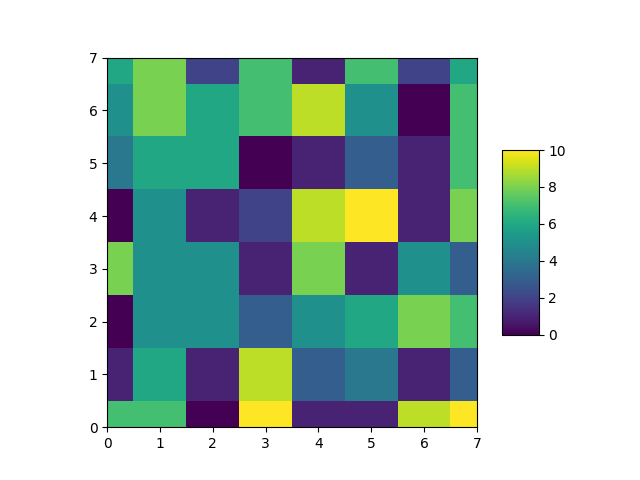
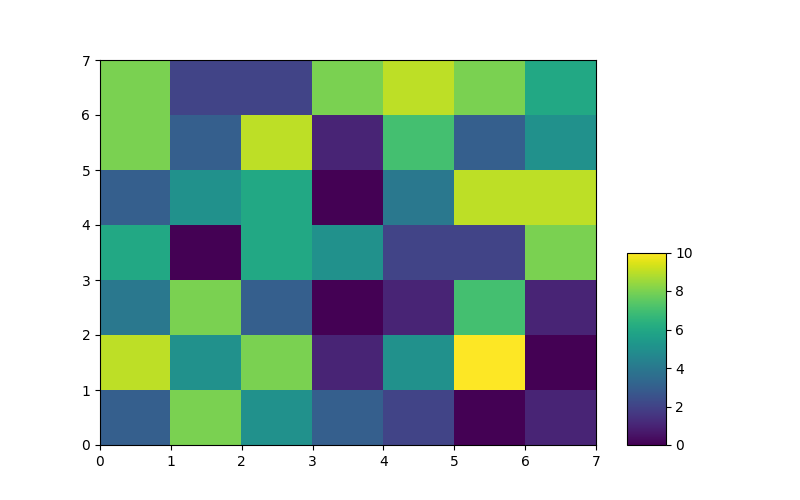
fix(HW2.05): add last part of homework # 2.05

diff --git a/lesson_2.08/homework-2.05.py b/lesson_2.08/homework-2.05.py
@@ -9,11 +9,11 @@
 
 import numpy as np
 import pandas as pd
-import matplotlib as mpl
 import matplotlib.pyplot as plt
 
 def task1() -> None:
     """
+    Задание 1
     """
     x = [2, 5, 10, 15, 20]
     y1 = [1, 7, 4, 5, 11]
@@ -30,6 +30,7 @@ def task1() -> None:
 
 def task2() -> None:
     """
+    Задание 2
     """
     x = np.arange(1, 6, 1)
     y1 = [1, 7, 6, 3, 4]
@@ -52,22 +53,25 @@ def task2() -> None:
 
 def task3() -> None:
     """
+    Задание 3
     """
     x = np.linspace(-5, 5, 15)
     y = x ** 2
+
+    # Положение минимума
+    xmin = 0
+    ymin = xmin ** 2
 
     fig, ax = plt.subplots()
 
     ax.plot(x, y)
 
-    xmin = 0
-    ymin = xmin ** 2
     ax.annotate(
         "min", 
-        xy=(xmin, ymin), 
-        xytext=(xmin, ymin + 10),
-        arrowprops=dict(
-            facecolor="green",
+        xy=(xmin, ymin),                # точка аннотации
+        xytext=(xmin, ymin + 10),       # точка подписи
+        arrowprops=dict(                # добавление стрелки
+            facecolor="green",          # цвет заливки стрелки
         )
     )
     fig.savefig("lesson_2.08/res/task_3.png")
@@ -76,34 +80,36 @@ def task3() -> None:
 
 def task4() -> None:
     """
+    Задание 4
     """
-    data = np.random.randint(0, 11, (8, 8))
+    data = np.random.randint(11, size=(7, 7))
+    fig = plt.figure(figsize=(8, 5))
 
-    plt.imshow(
+    plt.pcolor(
         data, 
         cmap="viridis",
     )
     plt.colorbar(
-        location="right",
-        shrink=0.5,
-        aspect=5
+        location="right",       # расположение колорбара
+        shrink=0.5,             # доля высоты холста
+        aspect=5,               # ширина колорбара
+        anchor=(0, 0)           # отправная точка построения колорбара
     )
-    plt.xlim(0, 7)
-    plt.ylim(0, 7)
     plt.savefig("lesson_2.08/res/task_4.png")
     plt.close()
 
 
 def task5() -> None:
     """
+    Задание 5
     """
-    fig, ax = plt.subplots()
-    x = np.linspace(0, 5, 100)
+    x = np.linspace(0, 5, 1000)
     y = np.cos(np.pi * x)
 
+    fig, ax = plt.subplots()
+
     ax.plot(x, y, "r")
-    ax.fill_between(x, y, where=(y > 0), color="blue", alpha=0.5)
-    ax.fill_between(x, y, where=(y < 0), color="blue", alpha=0.5)
+    ax.fill_between(x, y, color="blue", alpha=0.7)
 
     fig.savefig("lesson_2.08/res/task_5.png")
     plt.close()
@@ -111,40 +117,123 @@ def task5() -> None:
 
 def task6() -> None:
     """
+    Задание 6
     """
-    fig, ax = plt.subplots()
-    x = np.linspace(0, 5, 100)
+    x = np.linspace(0, 5, 1000)
     y = np.cos(np.pi * x)
 
-    ax.plot(x, y)
+    mask = np.where(y < -0.5)       # маска для отсекания графика
+    x[mask] = np.nan
+    y[mask] = np.nan
 
-    fig.savefig("lesson_2.08/res/task_5.png")
+    fig, ax = plt.subplots()
+
+    ax.plot(x, y, linewidth=2)
+    ax.set_ylim(-1, 1)
+
+    fig.savefig("lesson_2.08/res/task_6.png")
     plt.close()
-    pass
 
 
 def task7() -> None:
     """
+    Задание 7
     """
-    pass
+    x = np.arange(7)
+    y = x
+
+    fig, ax = plt.subplots(1, 3)
+    fig.set_figwidth(15)
+    fig.set_figheight(4)
+
+    drawstyles = ['steps-pre', 'steps-post', 'steps-mid']
+    for i in range(3):
+        ax[i].plot(x, y, "go-", drawstyle=drawstyles[i])
+        ax[i].grid()
+    
+    fig.savefig("lesson_2.08/res/task_7.png")
+    plt.close()
 
 
 def task8() -> None:
     """
+    Задание 8
     """
-    pass
+    x = np.linspace(0, 10, 10)
+    y = lambda a, b, c: a * x ** 2 + b * x + c      # функция построения параболы по параметрам
+
+    # Сформируем параболы для отображения
+    y1 = y(-0.2, 2, 0)
+    y2 = y(-0.6, 6, 0)
+    y3 = y(-0.6, 8, 0)
+
+    fig, ax = plt.subplots()
+
+    ax.plot(x, y3, color="green")
+    ax.plot(x, y2, color="orange")
+    ax.plot(x, y1, color="blue")
+
+    ax.fill_between(x, y3, color="green")
+    ax.fill_between(x, y2, color="orange")
+    ax.fill_between(x, y1, color="blue")
+
+    # Сформируем пустые графики для корректного отображения легенды
+    ax.plot([],[], color="blue", linewidth=5, label="y1")
+    ax.plot([],[], color="orange", linewidth=5, label="y2")
+    ax.plot([],[], color="green", linewidth=5, label="y3")
+
+    ax.set_ylim(0)
+
+    ax.legend(loc="upper left")     # положение легенды на графике
+    fig.savefig("lesson_2.08/res/task_8.png")
+    plt.close()
 
 
 def task9() -> None:
     """
+    Задание 9
     """
-    pass
+    data = pd.DataFrame({
+        "Ford": [60, 0],
+        "Toyota": [40, 0],
+        "BMV": [120, 0.2],
+        "AUDI": [50, 0],
+        "Jaguar": [85, 0],
+    }, index=["count", "explode"]).T
+
+    fig, ax = plt.subplots()
+    
+    ax = plt.pie(
+        data["count"], 
+        labels=data.index, 
+        explode=data["explode"],        # величина отклонения от центра
+    )
+    
+    fig.savefig("lesson_2.08/res/task_9.png")
+    plt.close()
 
 
 def task10() -> None:
     """
+    Задание 10
     """
-    pass
+    data = {
+        "Ford": 60,
+        "Toyota": 40,
+        "BMV": 120,
+        "AUDI": 50,
+        "Jaguar": 85,
+    }
+
+    fig, ax = plt.subplots()
+
+    ax.pie(
+        data.values(),
+        labels=data.keys(),
+        wedgeprops=dict(width=0.5)      # настройки отображения (ширина в половину диаграммы)
+    )
+    fig.savefig("lesson_2.08/res/task_10.png")
+    plt.close()
 
 
 def main() -> None:
